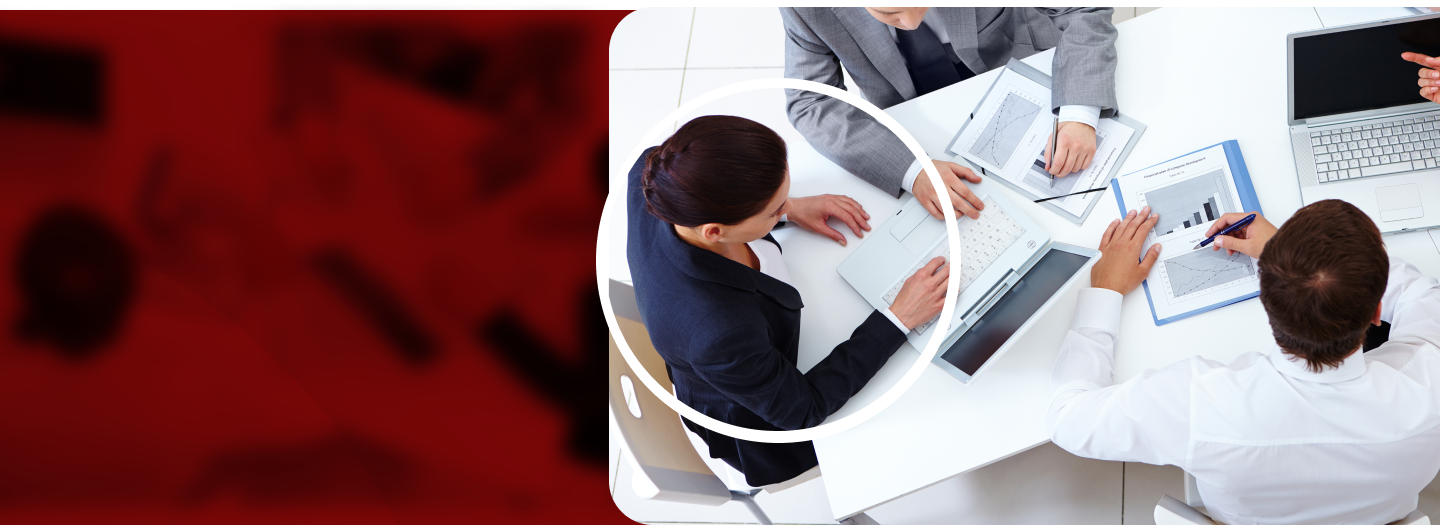
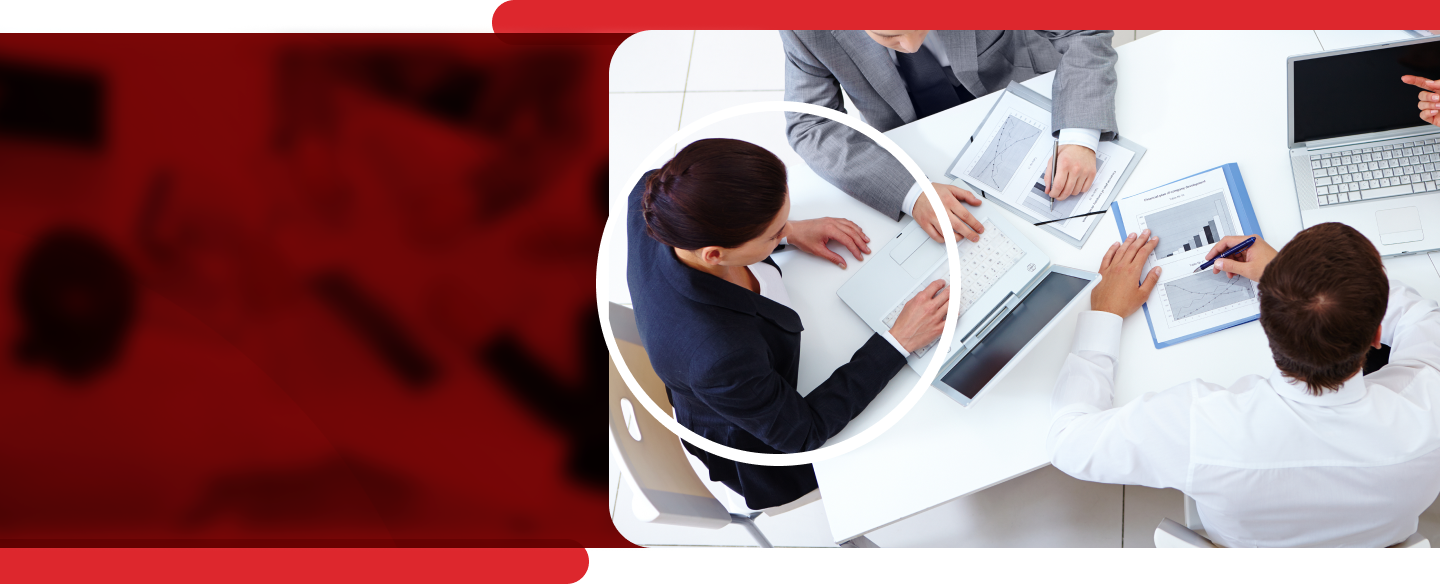
about page main section, values and faq done without responsive

diff --git a/app/about/page.tsx b/app/about/page.tsx
@@ -1,14 +1,55 @@
 import React from 'react'
 import Image from 'next/image';
 import NavbarComponent from './../components/navbar/index';
+import FAQ from '../components/about/faq/faq';
+import Values from '../components/about/values/values';
 
 const AboutUs = () => {
   return (
     <div>
-        <NavbarComponent dark={false}></NavbarComponent>
-        <section>
-            <Image className='w-full' src={'/about/banner.png'} alt='About interactive banner' width={1440} height={518} quality={100}></Image>
-        </section>
+      <NavbarComponent dark={false}></NavbarComponent>
+      <section className='relative'>
+        {/* <div className='absolute w-2/3 h-12 bg-[#DD272D] rounded-3xl right-0 -top-6 z-0'></div> */}
+
+        <article className='overflow-hidden relative my-8 min-h-[67vh] flex items-center'>
+          <div className='relative pl-[5%] basis-1/2'>
+            <h1 className='relative text-white font-regular text-3xl z-40 bg-[#DD272D] w-3/4 pl-8 uppercase'>We are</h1>
+            <h2 className='relative text-white font-black text-4xl z-40 pl-8'>InteractiveWorkers</h2>
+          </div>
+          <Image className='absolute top-0 object-cover z-30 w-full ' src={'/about/banner.png'} alt='About interactive banner' width={1440} height={518} quality={100}></Image>
+        </article>
+
+        <article className='text-center w-3/4 mx-auto my-24'>
+          <h2 className='font-extrabold text-4xl my-2 text-[#DD272D]'>InteractiveWorkers</h2>
+          <p className='text-lg w-full'>is a cutting-edge business solution that covers the whole outsourced sector, not simply one more outsourcing platform. We believe outsourcing should be simple, efficient, and advantageous for companies of all sizes. <span className='font-bold'>Our platform is made to streamline the outsourcing process, lessen its difficulties, and improve its results.</span> </p>
+          <div className='h-4 w-1/6 bg-[#DD272D] mt-16 mx-auto rounded-3xl'></div>
+        </article>
+
+        <article className='w-full mb-72'>
+          <h3 className='font-extrabold text-4xl uppercase bg-[#DD272D] text-white w-1/2 pl-20 py-4 rounded-r-full pb-12'>What we are</h3>
+          <div className='bg-[#DD272D] w-full flex'>
+            <div className='bg-[#282828] rounded-[60px] basis-[60%] px-16 -my-10 text-white text-xl max-h-[500px]'>
+              <div className='py-8 px-4'>
+                <h4 className='text-[#DD272D] font-extrabold'>InteractiveWorkers:</h4>
+                <p className='font-normal'>Your dedicated virtual assistants for success</p>
+              </div>
+              <Image className='w-full' src={'/about/what-we-are.png'} alt='Interactive What we are image' width={717} height={404}></Image>
+            </div>
+            <div className='basis-[40%] text-white text-lg font-medium flex items-center'>
+              <p className='p-8'>              With four years of experience, we provide expert support to propel your business forward.
+                <br /> <br />
+                We manage projects for companies of all sizes, allowing you to focus on other priorities. Choose us for a team that goes the extra mile for your administrative needs.</p>
+            </div>
+          </div>
+        </article>
+
+        <article className='relative values-bg text-white my-8 justify-center items-center gap-3'>
+          <h4 className='absolute left-[25%] top-[10%] text-4xl font-extrabold mx-auto p-4 text-center w-1/2 bg-[#c1272c70] rounded-3xl'>OUR <span className='font-normal'>CORE VALUES AS A</span> COMPANY</h4>
+          <Values></Values>
+        </article>
+
+        <FAQ></FAQ>
+      </section>
     </div>
   )
 }

diff --git a/app/content/faq.ts b/app/content/faq.ts
@@ -1,0 +1,31 @@
+export const faq = [
+    {
+        question:'How can I hire a virtual assistant?',
+        answer:"You just need to set up a meeting with our manager and he'll get all the information about your requirement, then he'll offer you a set of candidates from which you'll be able to choose who can give you the best service. Here we have some Virtual Assistant FAQs for you to know us better!"
+    },
+    {
+        question:'Is hiring a virtual assistant expensive?',
+        answer:"Virtual assistant cost is a happy subject for everyone involved. Examples of how costly it can be to fill your team with the best professionals are everywhere, without you having to search for them. Job search websites make everything very difficult because you have to hire someone from a huge list of candidates without any filtering, and there are many examples of how this can go terribly wrong. When you find out how much we charge for our virtual assistant service, you'll want to hire a virtual assistant as soon as possible."
+    },
+    {
+        question:'What can a virtual assistant do?',
+        answer:"A virtual assistant can fill any service you can think of. Tasks usually associated with highly specialized and on-site workers can be done more efficiently via virtual assistance by hiring professionals on a freelance basis. If you hire a virtual assistant you'll come to know all the benefits of virtual assistance, and how proficiency in data entry and web research can make you fall in love with your virtual assistant. Do you have a customer that's skip tracing?"
+    },
+    {
+        question:'What is required to be a virtual assistant?',
+        answer:"We do a cautious screening process to make sure our workers are professionals in their field, checking their previous experience and making sure they can be trusted with our international customers. We check their skills in using standard tools as well as English proficiency and professional credentials."
+    }
+    ,
+    {
+        question:'What do you mean by administrative tasks?',
+        answer:"The organization of a company is vital. Every partner needs to know that everything is in order, and a normal employee doesn't know how important this is for you. Doing an interview with one of our virtual assistants will let you know that their education is bound to bring you exposure and support in every phase of your tasks. Our virtual assistants will provide you with support services to ensure that every part of your operation runs smoothly."
+    },
+    {
+        question:'How will I be able to select my virtual assistant?',
+        answer:"When you decide to work with InteractiveWorkers you'll get to interview any one of the candidates we offer to be your virtual assistant. We like to make sure that if you want to partner with us you'll know that we'll always be there to support your decisions and make sure they reach a good port with our virtual assistants."
+    },
+    {
+        question:"What is the main problem you have dealt with as a company?",
+        answer:"Customers doing skip tracing! People that are caught skip tracing are immediately discarded from our clientele. Virtual assistants are valuable people that need to be respected. The tasks they perform with the utmost professionalism."
+    }
+]

diff --git a/app/components/about/faq/faq.tsx b/app/components/about/faq/faq.tsx
@@ -1,0 +1,26 @@
+"use client"
+import Image from 'next/image'
+import React, { useState } from 'react'
+import { faq } from '@/app/content/faq'
+
+const FAQ = () => {
+    const [opened, setOpened] = useState(-1)
+
+  return (
+    <article className='w-3/4 mx-auto mt-28 min-h-[80vh]'>
+      <h3 className='w-1/2 text-4xl font-extrabold mx-auto text-center text-[#DD272D] p-1 border-4 border-[#DD272D] rounded-full my-6'>Virtual Assistants FAQS</h3>
+      <div className='text-white flex flex-wrap gap-4 justify-between'>
+        {faq.map((item,i) => {
+            return(
+                <div key={i} className={`p-4 pl-0 border-2 border-[#9E9E9E] rounded-xl basis-[45%] h-fit `} onClick={()=>{opened === i ? setOpened(-1) : setOpened(i)}}>
+                  <h4 className={`bg-[#DD272D] text-lg font-semibold p-2 px-4 -ml-0.5 flex justify-between items-center  ${ opened === i ? "rounded-tr-xl" : "rounded-r-xl"}`}> <span>{item.question}</span> <Image className='' src={'/about/faq/arrow.svg'} alt='FAQ Interactive Arrow' width={12} height={5}></Image> </h4> 
+                  <p className={` font-normal text-base  rounded-b-xl bg-[#DD272D] overflow-hidden transition-all ease-out ${opened === i ? "w-full h-full p-4" :"h-0 p-0 m-0"}`}> <span className={` transition-all delay-1000 ${opened=== i ? "w-full" : "w-0 h-0"}`}>{item.answer}</span></p>
+                </div>
+            )
+        })}
+      </div>
+    </article>
+  )
+}
+
+export default FAQ

diff --git a/app/content/values.ts b/app/content/values.ts
@@ -1,0 +1,22 @@
+export const values = [
+    {
+        title:'Customer Focus',
+        subtitle:'We prioritize customer satisfaction, putting their needs at the forefront of our decisions and actions.',
+        img:'0.svg'
+    },
+    {
+        title:'Adaptability',
+        subtitle:'We are agile and responsive to change, embracing new challenges and opportunities with enthusiasm.',
+        img:'1.svg'
+    },
+    {
+        title:'Confidentiality',
+        subtitle:'We maintain the strictest standards of confidentiality, safeguarding sensitive information with utmost care.',
+        img:'2.svg'
+    },
+    {
+        title:'Transparency',
+        subtitle:'We operate with openness and honesty, fostering trust and building strong relationships with our stakeholders.',
+        img:'3.svg'
+    }
+]

diff --git a/app/components/about/values/values.tsx b/app/components/about/values/values.tsx
@@ -1,0 +1,23 @@
+import { values } from '@/app/content/values'
+import Image from 'next/image'
+import React from 'react'
+
+const Values = () => {
+  return (
+    <div className= 'w-3/4 mx-auto text-center flex' >
+        {values.map((value) => {
+          return(
+            <div key={value.img} className='pt-44 pb-32 rounded-3xl' >
+              <div className=" border-[#c3c3c3]" >
+                  <Image src={`/about/values/${value.img}`} alt='Transparency icon' height={323} width={323}></Image>
+                  < h5 className = 'text-xl font-extrabold' > {value.title} </h5>
+                  < p className = 'font-medium text-lg px-12 mt-6' > {value.subtitle}</p>
+              </div>
+            </div>
+          )
+        })}
+    </div>
+  )
+}
+
+export default Values

diff --git a/app/globals.css b/app/globals.css
@@ -48,3 +48,14 @@
 .discover-vas-bg{
   background: url('/home/discover-vas/world.png') no-repeat center;
 }
+
+.values-bg{
+  background: url('/about/values.png') no-repeat center;
+  background-size: cover;
+  background-color: #DD272D;
+  background-blend-mode: multiply;
+}
+
+.values-card-bg{
+  background: linear-gradient(90deg, rgba(217,217,217,.12) 22%, rgba(115,115,115,.12) 96%);
+}
